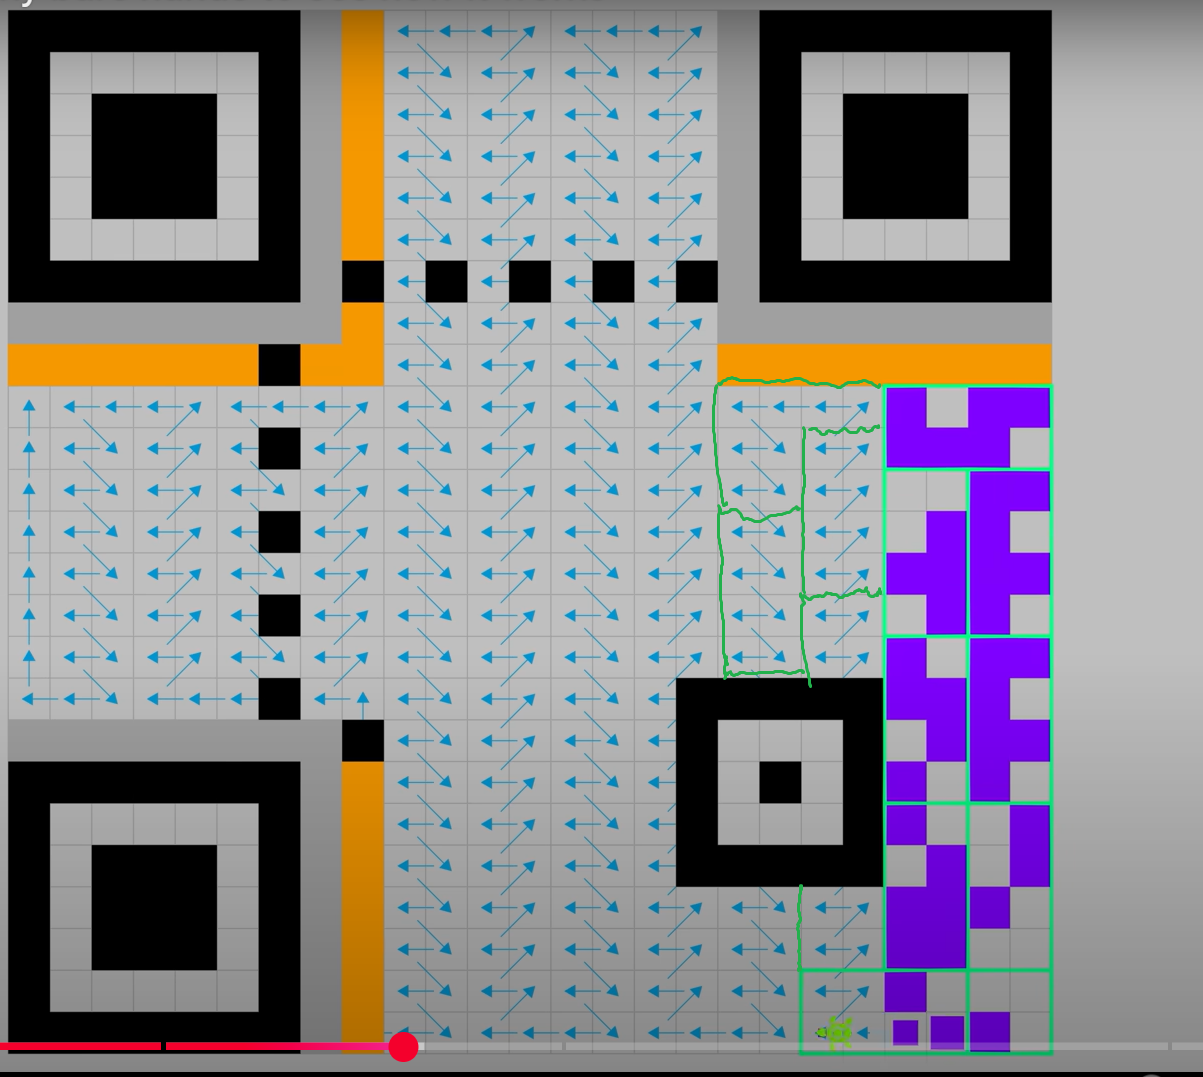
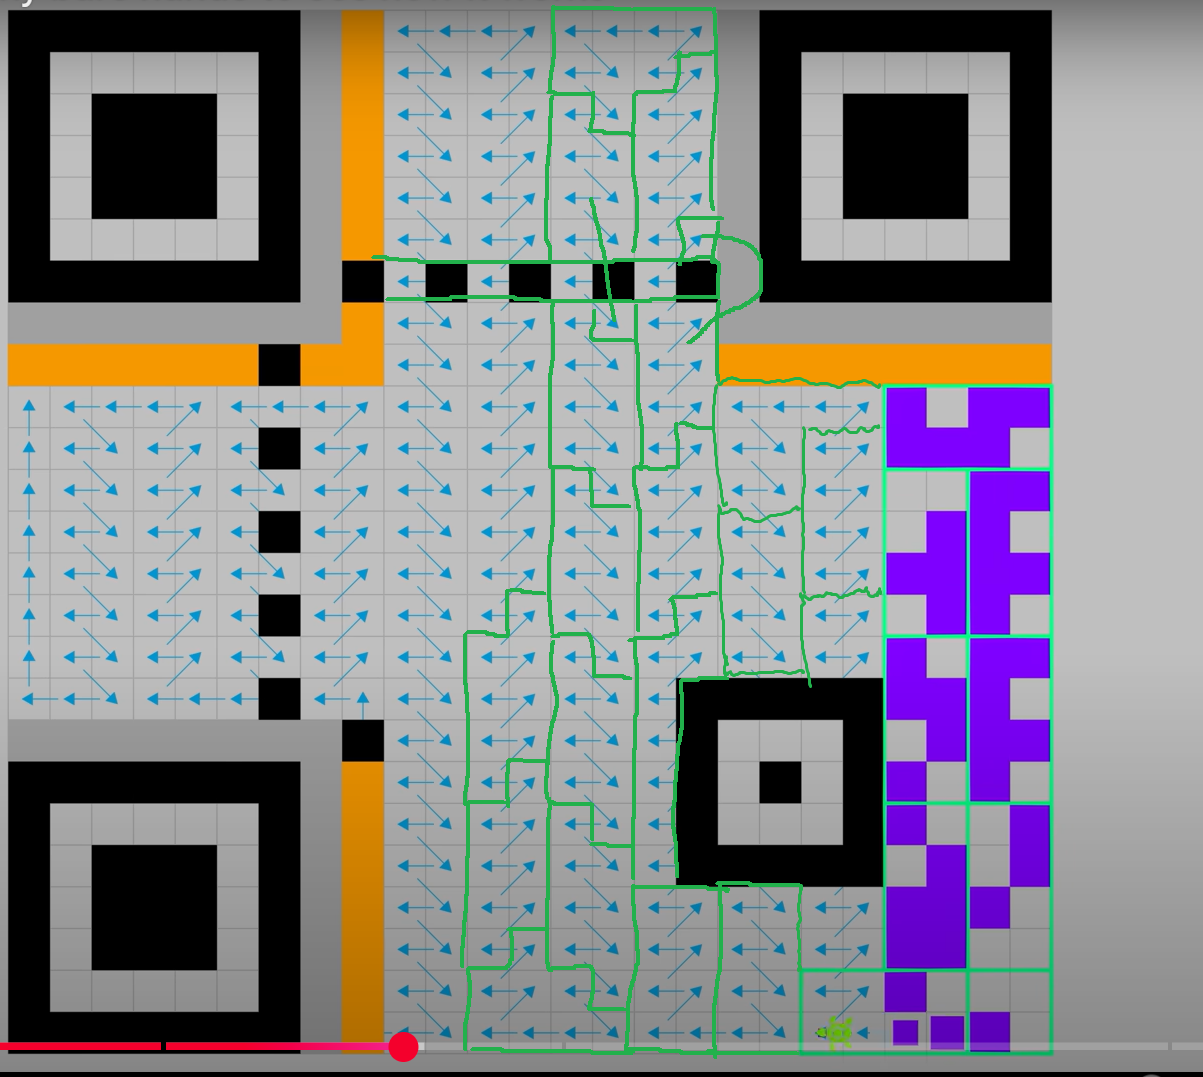
updated colored-bytes.png added now first 23 bytes of data generation in qr-code.tsx

Changed region(s): [[0.3076, 0.0, 0.6459, 0.9805], [0.4613, 0.8886, 0.4921, 0.9192], [0.3383, 0.2758, 0.3691, 0.3064]]

diff --git a/app/qr-code.tsx b/app/qr-code.tsx
@@ -22,7 +22,14 @@ bytePositions.set(11, [[21, 18], [21, 17], [22, 18], [22, 17], [23, 18], [23, 17
 bytePositions.set(12, [[24, 16], [24, 15], [23, 16], [23, 15], [22, 16], [22, 15], [21, 16], [21, 15]]);
 bytePositions.set(13, [[20, 15], [19, 15], [18, 15], [17, 15], [16, 15], [15, 16], [15, 15], [14, 16]]);
 bytePositions.set(14, [[14, 15], [13, 16], [13, 15], [12, 16], [12, 15], [11, 16], [11, 15], [10, 16]]);
-bytePositions.set(15, [[10, 15], [ 9, 16], [ 9, 15], [ 8, 16], [ 8, 15], [ 7, 16], [ 7, 15], [ 6, 15]]);
+bytePositions.set(15, [[10, 15], [ 9, 16], [ 9, 15], [ 8, 16], [ 8, 15], [ 7, 16], [ 7, 15], [ 5, 16]]);
+bytePositions.set(16, [[ 5, 15], [ 4, 16], [ 4, 15], [ 3, 16], [ 3, 15], [ 2, 16], [ 2, 15], [ 1, 16]]);
+bytePositions.set(17, [[ 1, 15], [ 0, 16], [ 0, 15], [ 0, 14], [ 0, 13], [ 1, 14], [ 1, 13], [ 2, 14]]);
+bytePositions.set(18, [[ 2, 13], [ 3, 14], [ 3, 13], [ 4, 14], [ 4, 13], [ 5, 14], [ 5, 13], [ 7, 14]]);
+bytePositions.set(19, [[ 7, 13], [ 8, 14], [ 8, 13], [ 9, 14], [ 9, 13], [10, 14], [10, 13], [11, 14]]);
+bytePositions.set(20, [[11, 13], [12, 14], [12, 13], [13, 14], [13, 13], [14, 14], [14, 13], [15, 14]]);
+bytePositions.set(21, [[15, 13], [16, 14], [16, 13], [17, 14], [17, 13], [18, 14], [18, 13], [19, 14]]);
+bytePositions.set(22, [[19, 13], [20, 14], [20, 13], [21, 14], [21, 13], [22, 14], [22, 13], [23, 14]]);
 
 const numberArray: number[][] = [
 // 0  1  2  3  4  5  6  7  8  9 10 11 12 13 14 15 16 17 18 19 20 21 22 23 24
